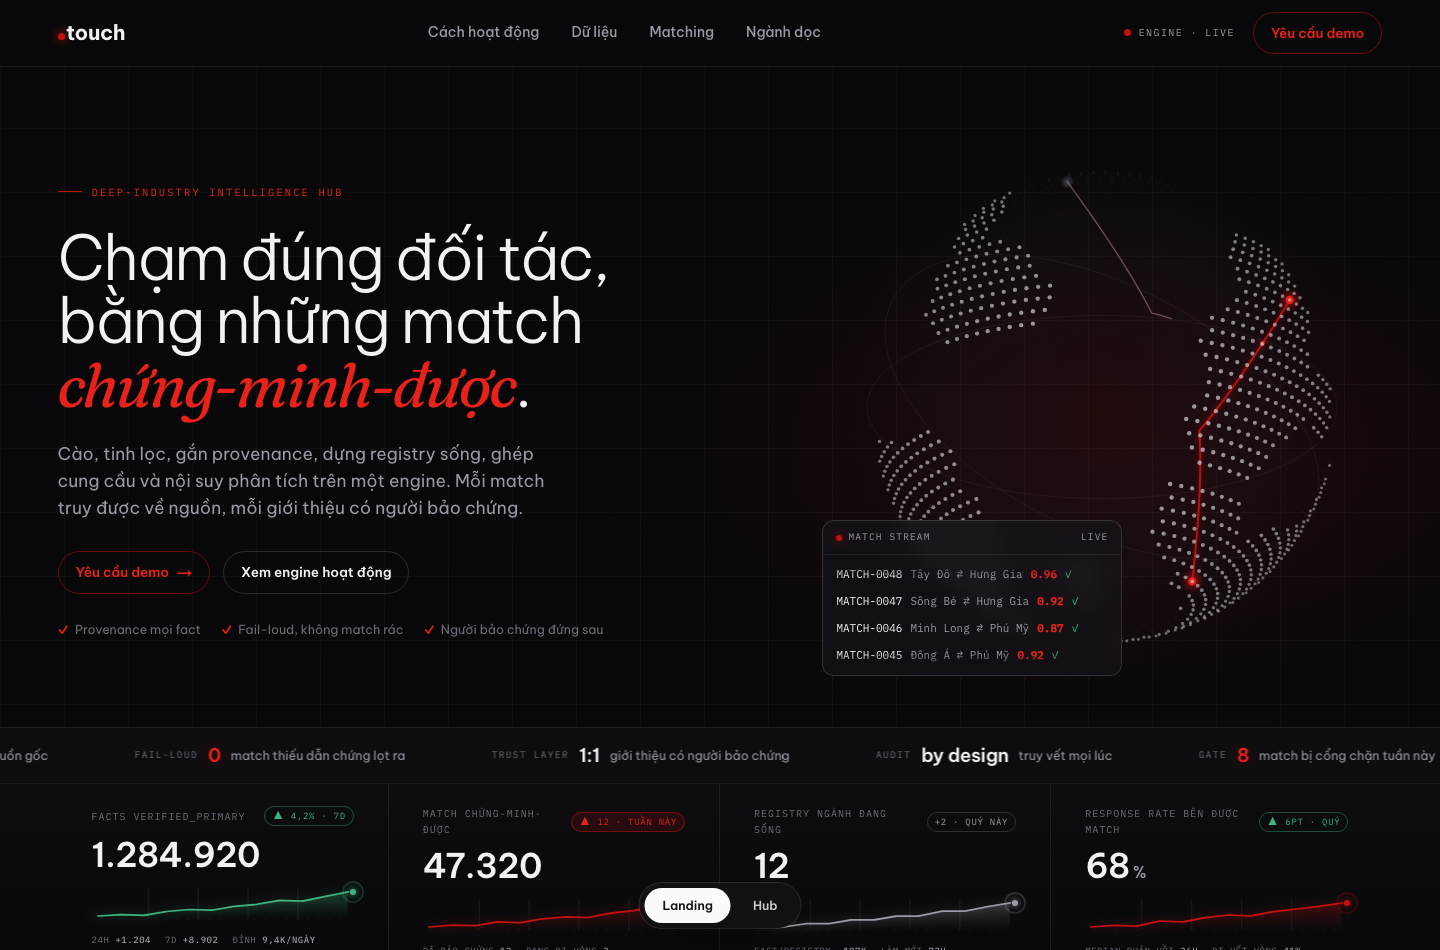
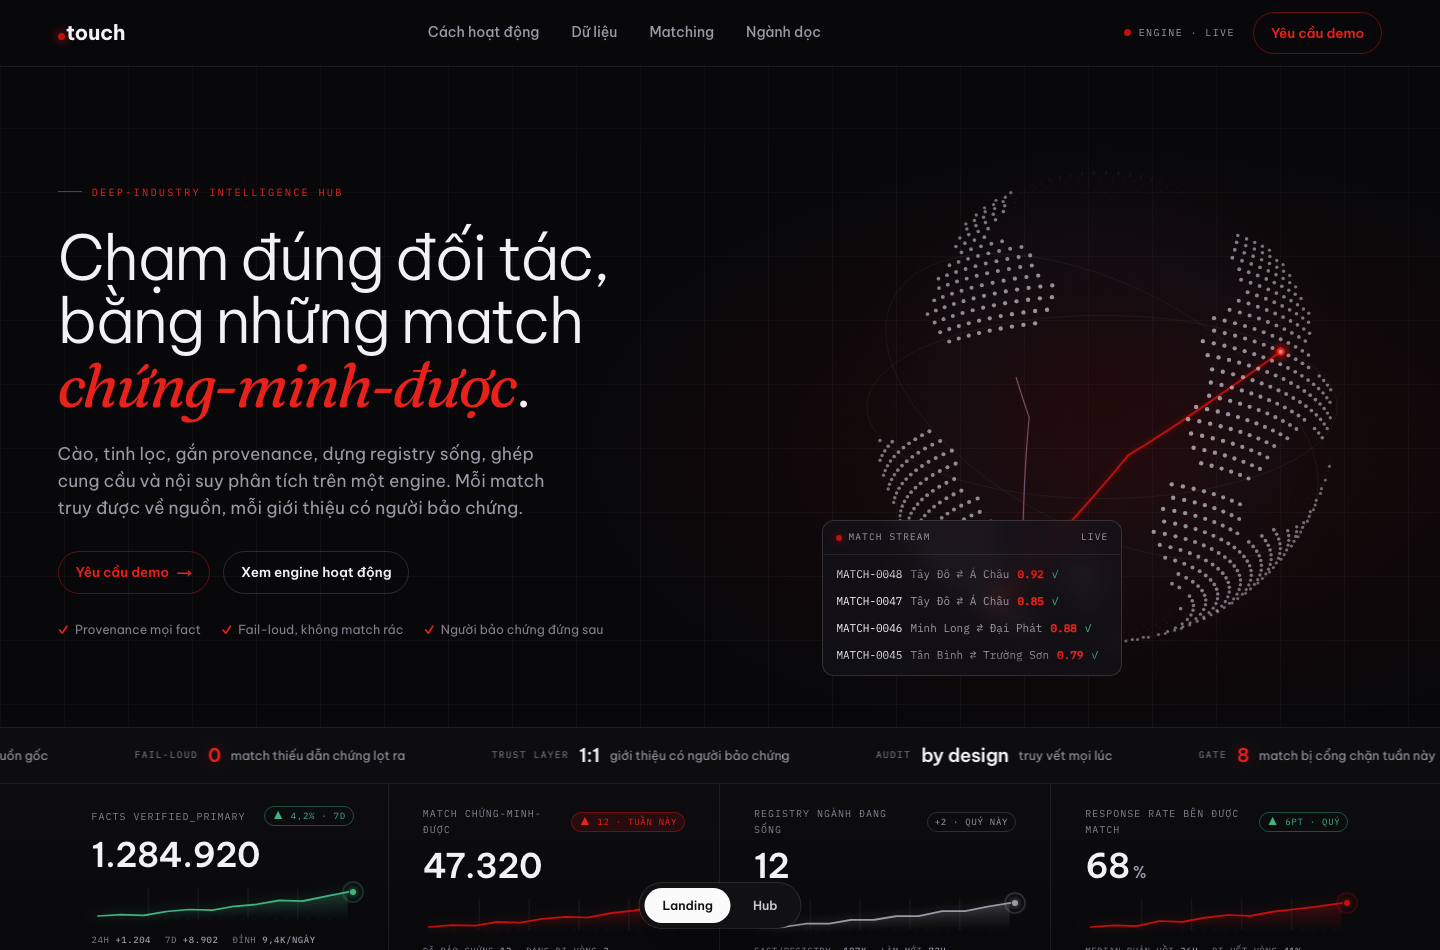
Hub sang tone den do (.dk): override toan bo class hub, tuong phan AA, a11y 100

diff --git a/app/globals.css b/app/globals.css
@@ -969,6 +969,8 @@
     --dk-rdb: #E8221A;
     --dk-rds: rgba(196, 15, 15, 0.14);
     --dk-rdl: rgba(196, 15, 15, 0.5);
+    /* do CHU nho tren nen toi: sang hon mot bac de dat AA 4.5:1 */
+    --dk-rdt: #F53B2E;
     --dk-ok: #3FB27F;
     background: var(--dk-bg);
     color: var(--dk-tx);
@@ -1234,4 +1236,57 @@
   .dk-metrics-in { grid-template-columns: 1fr; }
   .dk-metric { border-right: none; border-bottom: 1px solid var(--dk-ln); }
   .dk-foot { padding-bottom: 110px; }
+}
+
+/* ============================================================
+   HUB TOI: cung tone den do voi landing (.dk hub-view).
+   Override cac class hub sang token dk-*, giu nguyen ket cau.
+   ============================================================ */
+@layer components {
+  .dk :focus-visible { outline-color: var(--dk-tx); }
+  .dk.hub-view { background: var(--dk-bg); }
+  .dk .hub-top { background: rgba(8, 8, 10, 0.72); border-bottom: 1px solid var(--dk-ln); backdrop-filter: blur(16px); }
+  .dk .dom-switch { background: transparent; border-color: var(--dk-ln2); color: var(--dk-tx2); }
+  .dk .dom-switch b { color: var(--dk-tx); }
+  .dk .hub-search { background: var(--dk-bg-1); border-color: var(--dk-ln); color: var(--dk-tx3); }
+  .dk .demo-tag { color: var(--dk-tx2); border-color: var(--dk-rdl); background: var(--dk-rds); }
+  .dk .avatar { background: var(--dk-bg-3); color: var(--dk-tx); border: 1px solid var(--dk-ln2); }
+  .dk .nav-login { color: var(--dk-tx2) !important; }
+  .dk .nav-login:hover { color: var(--dk-tx) !important; }
+  .dk .rail { background: var(--dk-bg-1); border-right-color: var(--dk-ln); }
+  .dk .rail .grp { color: var(--dk-tx3); }
+  .dk .rail a, .dk .rail button { color: var(--dk-tx2); }
+  .dk .rail a.on, .dk .rail button.on { background: var(--dk-bg-3); color: var(--dk-tx); }
+  .dk .rail a:hover:not(.on), .dk .rail button:hover:not(.on) { background: var(--dk-bg-2); }
+  .dk .hub-h p { color: var(--dk-tx3); }
+  .dk .btn-primary { background: transparent; border: 1px solid var(--dk-rdl); color: var(--dk-rdt); }
+  .dk .btn-primary:hover { background: var(--dk-rds); border-color: var(--dk-rd); transform: translateY(-1px); box-shadow: 0 10px 28px -10px rgba(196, 15, 15, 0.4); }
+  .dk .kpi { background: var(--dk-bg-1); border-color: var(--dk-ln); }
+  .dk .kpi .k { color: var(--dk-tx3); }
+  .dk .kpi .t { color: var(--dk-ok); }
+  .dk .kpi .t.warn { color: var(--dk-rdt); }
+  .dk .panel { background: var(--dk-bg-1); border-color: var(--dk-ln); }
+  .dk .panel-h { border-bottom-color: var(--dk-ln); }
+  .dk .panel-h .mono { color: var(--dk-tx3); }
+  .dk .qrow { border-bottom-color: var(--dk-ln); }
+  .dk .qrow:hover { background: var(--dk-bg-2); }
+  .dk .qrow.on { background: var(--dk-rds); }
+  .dk .qrow .sc { color: var(--dk-ok); }
+  .dk .qrow .mid .a { color: var(--dk-tx); }
+  .dk .qrow .mid .b { color: var(--dk-tx3); }
+  .dk .badge.vch { background: var(--dk-rds); color: var(--dk-tx); border: 1px solid var(--dk-rdl); }
+  .dk .badge.rdy { background: rgba(63, 178, 127, 0.14); color: var(--dk-ok); border: 1px solid rgba(63, 178, 127, 0.4); }
+  .dk .reg-table { border-top-color: var(--dk-ln); }
+  .dk .reg-table th { color: var(--dk-tx3); border-bottom-color: var(--dk-ln); }
+  .dk .reg-table td { color: var(--dk-tx2); border-bottom-color: var(--dk-ln); }
+  .dk .reg-table .ent { color: var(--dk-tx); }
+  .dk .tierC { background: var(--dk-bg-3); border: 1px solid var(--dk-ln2); color: var(--dk-tx2); }
+  .dk .hub-note { color: var(--dk-tx3); }
+  .dk .mcard-flush { border: none; box-shadow: none; }
+  /* rail thanh ngang mobile: pill toi */
+  @media (max-width: 960px) {
+    .dk .rail { border-bottom-color: var(--dk-ln); }
+    .dk .rail a, .dk .rail button { border-color: var(--dk-ln); background: var(--dk-bg-2); }
+    .dk .rail a.on, .dk .rail button.on { background: var(--dk-tx); color: var(--dk-bg); border-color: var(--dk-tx); }
+  }
 }

diff --git a/app/hub/page.tsx b/app/hub/page.tsx
@@ -36,7 +36,7 @@ export const metadata: Metadata = {
 
 export default function HubPage() {
   return (
-    <div className="hub-view">
+    <div className="dk hub-view">
       <HubTopBar />
       <div className="hub-body">
         <HubRail />
